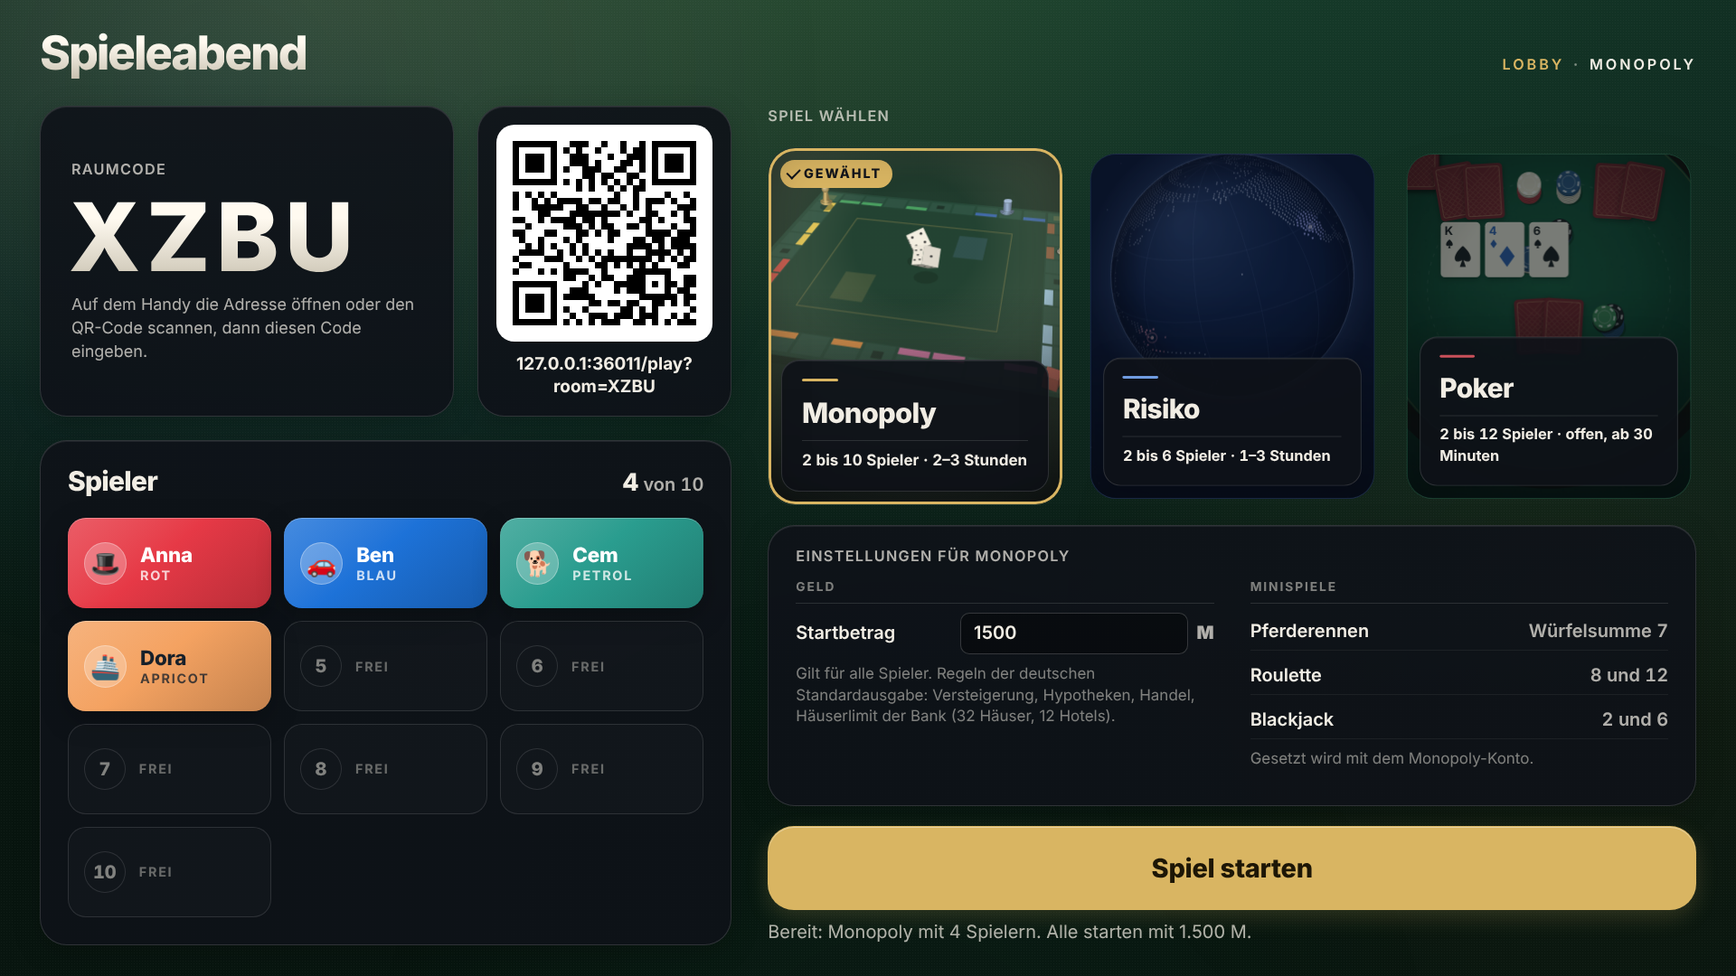
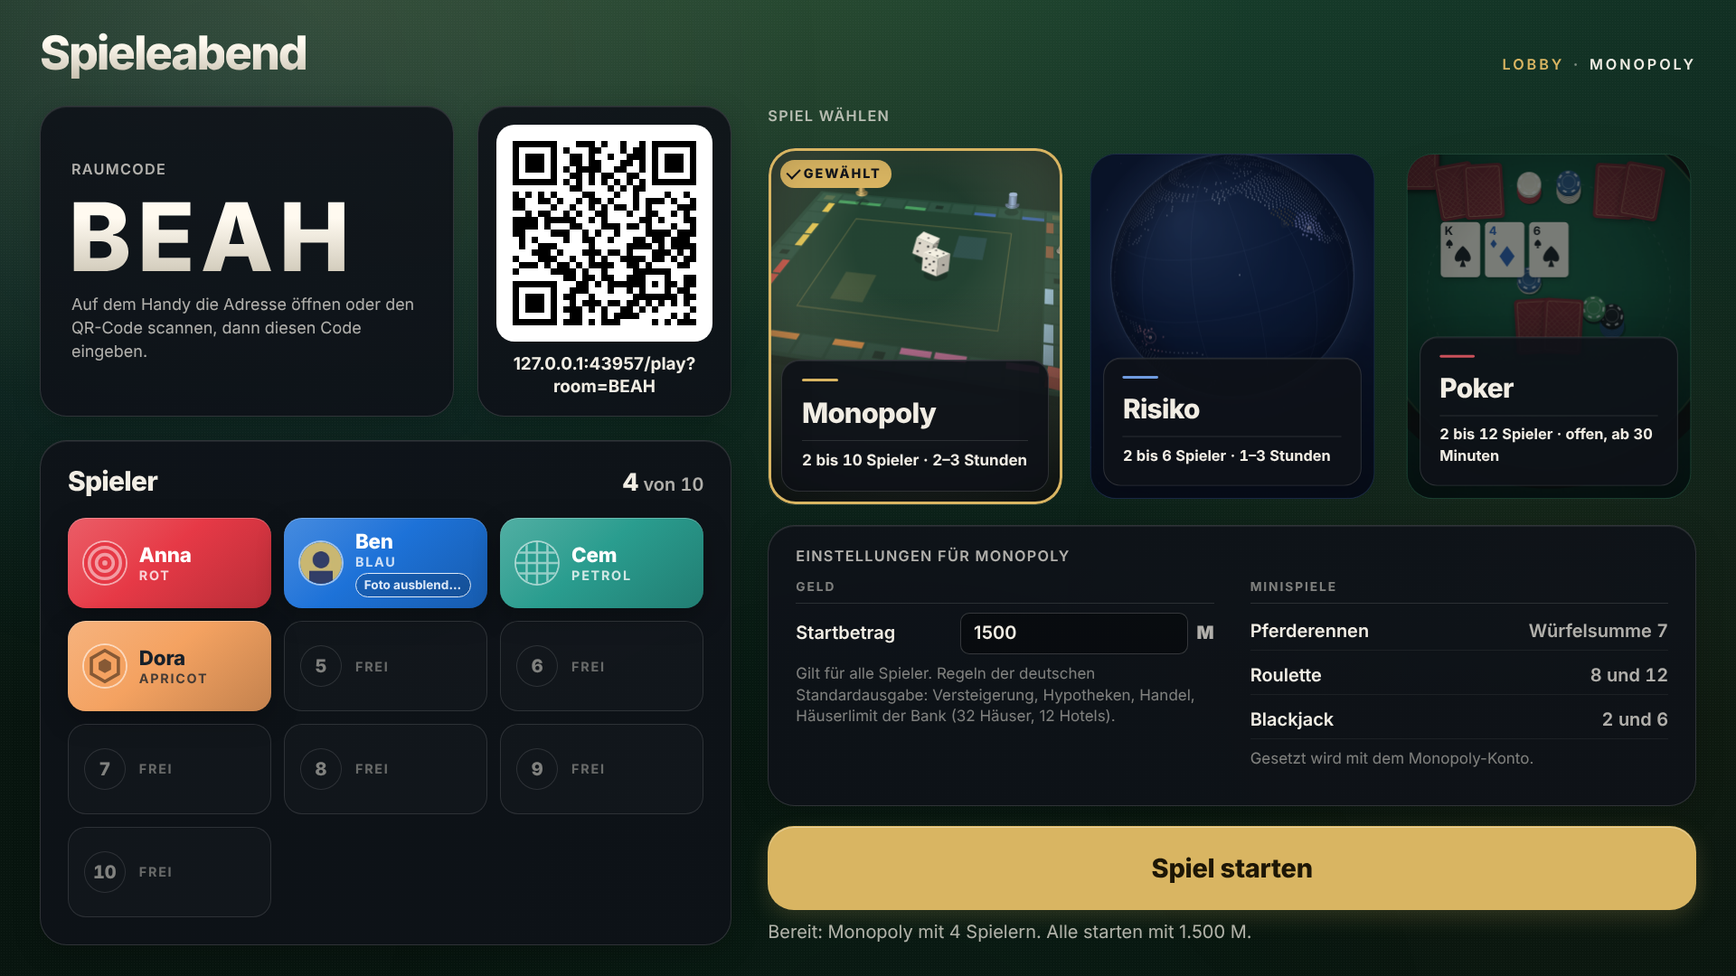
Bildschirmfotos und Doku: Avatare und eigene Fotos
Claude-Session: https://claude.ai/code/session_01TwzLN21TEFz6fqiYsAZQ7b

diff --git a/docs/spielcenter-plan.md b/docs/spielcenter-plan.md
@@ -42,7 +42,7 @@ Ziel: Aus dem Monopoly-Abend wird ein Spielcenter mit mehreren Spielen.
   - Showdown: Reihenfolge ab dem letzten Angreifer auf dem River, sonst ab links vom Dealer. Wer noch gewinnen oder teilen kann, deckt automatisch auf; wer nicht gewinnen kann, darf am Handy zeigen oder verdeckt wegwerfen (15 s, danach verdeckt; getrennt sofort verdeckt). Ist jemand All-in, werden alle Hände gezeigt. Handbewertung High Card bis Royal Flush mit Kicker und Gleichstand, Namen wie „Full House, Damen über Achten“.
   - Zugzeit: Ablauf heißt Check, wenn möglich, sonst Fold. Sie beginnt erst nach den Animationen. Ist der Spieler am Zug getrennt, ruht sie (Pause); nach 5 Minuten verlässt er den Tisch (seine Hand wird gefoldet, sein Guthaben bleibt in der Abrechnung).
   - Nachkaufen: Wer pleite ist, entscheidet zwischen zwei Runden am Handy „Nachkaufen“ (zum Startbetrag) oder „Aussetzen“ (mit Zugzeit: Ablauf heißt Aussetzen). Wer aussetzt, kann später nachkaufen. Ein Zähler je Spieler zeigt die Nachkäufe. Ohne Nachkaufen scheidet aus, wer pleite ist; das Spiel endet, wenn nur noch einer Guthaben hat (mit Nachkaufen: wenn weniger als zwei am Tisch bleiben). „Tisch verlassen“ in den Handy-Einstellungen.
-  - Spielerfarben: eigene Palette mit 12 Farben, dazu immer die Sitznummer. Keine Spielfigur.
+  - Spielerfarben: eigene Palette mit 12 Farben, dazu immer die Sitznummer und der Avatar des Spielers (am Namensschild und in der Spielerliste).
   - Fernseher: ovaler Tisch als flache Flächen (schmale Holzkante, dunkle Polsterkante, Filz mit sehr feinem Webmuster, feine Linie an der Filzkante). Plätze gleichmäßig auf einer Ellipse am Tischrand (ab 9 Spielern kleinere Plätze und Karten): Namensschild mit Name, Guthaben, Sitznummer, Farbstreifen, Plaketten SB/BB/All-in, zwei kleine Karten am Platz, Zugzeit als feiner Ring um das Schild (nur mit Zugzeit), aktiver Spieler mit feiner Linie markiert, Gefoldete abgedunkelt. Spielerliste mit Guthaben und Nachkäufen am Rand.
   - Tischgeometrie (`public/board/poker-layout.js`, reine Rechnung für Browser und Tests): Sperrzonen in der Mitte sind Kartenring (Gemeinschaftskarten), Blinds-Feld, Pot-Feld und die Zeile für den Handnamen. Ein Löser setzt Einsätze zwischen Platz und Mitte (notfalls seitlich verschoben oder kleiner) und den Dealer-Button (Puck mit „D“) neben seinen Platz am Tischrand, nie zur Mitte hin; reicht der Platz nicht, wird alles etwas kleiner. Chips fliegen um Kartenring und Blinds-Feld herum. Geprüft im Browser (getBoundingClientRect) für 2, 3, 6, 9 und 12 Spieler in allen Phasen inklusive Chips im Flug, in 1920×1080, 1366×768 und 1024×768: 0 Überlappungen.
   - Karten (Fernseher und Handy, `public/shared/poker-karten.*`): 5:7, Ecken mit Rang und Farbe oben links und unten rechts (gedreht), großes Farbsymbol in der Mitte, Bildkarten B, D, K rein typografisch mit feinem Rahmen, vier Farben (Pik schwarz, Herz rot, Karo blau, Kreuz grün), Rückseite mit flachem Rautengitter; kleine Karten am Platz nur mit oberer Ecke.
@@ -65,15 +65,26 @@ Ziel: Aus dem Monopoly-Abend wird ein Spielcenter mit mehreren Spielen.
   - **Offen (eigener Auftrag):** Die Weckseite `wake/` ist noch eine Kopie des alten Designs und muss an die neue Startseite angeglichen werden.
 - **Lobby und Beitritt** (Branch `feature/lobby`; `public/shared/lobby.css`, `lobby.js`, Host-Teil in `public/board/board.js`): im Design der Startseite. Wortmarke, Schrift, Farben, Glas-Flächen, Abstände und Radien sind aus `public/start/start.css` **kopiert** (die Startseite bleibt eigenständig). Verhalten und Server-Schnittstellen sind unverändert.
   - Host-Ansicht als eine Seite ohne Scrollen (1920×1080, 1366×768, 1024×768; Maße in em, Grundgröße aus Fensterbreite und -höhe). Links Raumcode sehr groß in einer Glas-Karte, daneben der QR-Code mit Adresse, darunter die Spielerliste. Rechts die drei Spiele als große Karten, darunter die Einstellungen und der Start-Knopf.
-  - Spielerliste: jeder Platz als Karte in der Spielerfarbe mit Name, Farbname und bei Monopoly der Spielfigur (sonst Platznummer); neue Spieler gleiten kurz herein. Freie Plätze als dezente Umrisse mit Nummer, Zähler „3 von 6“. Das Raster richtet sich nach der Platzzahl des Spiels (2 bzw. 3 Spalten, bis 12 Plätze).
-  - Spielkarten mit den animierten Hintergründen der Startseite (Weltkugel, Spielfeld, Pokertisch). Der Code liegt in `public/shared/hintergrund.js` und wird von Startseite und Lobby geladen: gleiche Qualitätsstufen (eine Fläche mit voller Bildrate – in der Lobby das gewählte Spiel –, die anderen mit halber; unsichtbar oder Hintergrund-Tab ruht; schlechte Bildzeit senkt Auflösung, macht Glas fest, zuletzt Standbilder; `prefers-reduced-motion` zeigt Standbilder). Die Karten werden einmal gebaut und danach nur umgeschaltet, damit die Szenen nicht neu starten. Auswahl mit Ring in der Spielfarbe und Plakette „Gewählt“, nicht gewählte Karten treten zurück. Auf flachen Karten (16:9) entfällt die Beschreibung, damit die Szene sichtbar bleibt.
+  - Spielerliste: jeder Platz als Karte in der Spielerfarbe mit Avatar (bzw. Foto), Name und Farbname; hat ein Spieler ein Foto, steht darunter „Foto ausblenden“ für den Host. Neue Spieler gleiten kurz herein. Freie Plätze als dezente Umrisse mit Nummer, Zähler „3 von 6“. Das Raster richtet sich nach der Platzzahl des Spiels (2 bzw. 3 Spalten, bis 12 Plätze).
+  - Spielkarten mit den animierten Hintergründen der Startseite (Weltkugel, Spielfeld, Pokertisch), ohne Beschreibungstext: nur Spielname, Spielerzahl und Dauer, damit die Szene mehr Fläche hat. Der Code liegt in `public/shared/hintergrund.js` und wird von Startseite und Lobby geladen: gleiche Qualitätsstufen (eine Fläche mit voller Bildrate – in der Lobby das gewählte Spiel –, die anderen mit halber; unsichtbar oder Hintergrund-Tab ruht; schlechte Bildzeit senkt Auflösung, macht Glas fest, zuletzt Standbilder; `prefers-reduced-motion` zeigt Standbilder). Die Karten werden einmal gebaut und danach nur umgeschaltet, damit die Szenen nicht neu starten. Auswahl mit Ring in der Spielfarbe und Plakette „Gewählt“, nicht gewählte Karten treten zurück.
   - Einstellungen gruppiert in einer Glas-Karte: Monopoly (Geld; Minispiele mit Würfelsummen), Risiko (Regeln; Darstellung), Poker (Geld; Ablauf). Die Karte ist immer so hoch wie bei Poker, damit beim Spielwechsel nichts springt.
   - Start-Knopf groß, erst aktiv mit genug Spielern; darunter, was fehlt („Noch 2 Spieler fehlen – Risiko braucht mindestens 2.“) bzw. „Bereit: …“.
   - Gesamthintergrund: Stimmung je Spiel (Monopoly warmes Grün, Risiko tiefes Blau, Poker Tischgrün) als Überblendung, dazu die langsam treibenden Lichter der Startseite. Die frühere Weltkarte bzw. die Muster im Hintergrund entfallen.
   - Bewegung nur mit `transform` und `opacity` (Auswahl über `scale`/`translate` und einen Schleier): gestaffelter Eingang (0,6–0,7 s, cubic-bezier), Wortmarke Buchstabe für Buchstabe, Hover, weicher Auswahlwechsel. `prefers-reduced-motion`: nur kurzes Einblenden, keine treibenden Lichter.
-  - Handy-Beitritt (`/play`): gleiche Gestaltung (Wortmarke, Spiel und Spielerzahl, Formular als Glas-Karte, goldener Knopf), Verhalten unverändert. Spielfigur wählt man nur bei Monopoly, sonst vergibt der Server die erste freie.
-  - Geprüft im Browser (`test/lobby-layout.e2e.test.js`): 0, 4, 8 und 12 Spieler, jedes Spiel gewählt, drei Auflösungen: kein Scrollen, keine Überlappung, nichts ragt aus seiner Karte, kein Konsolenfehler; dazu Handy 390×844 und reduzierte Bewegung.
-  - Bildschirmfotos: `lobby-leer-*`, `lobby-4-spieler-*`, `lobby-12-spieler-*` (1920×1080 und 1024×768), `lobby-monopoly-1920x1080`, `lobby-risiko-1920x1080`, `lobby-poker-1920x1080`, `handy-beitritt-390x844` (Monopoly), `handy-beitritt-risiko-390x844`, `handy-beitritt-voll-390x844` in `docs/screenshots/`.
+  - Handy-Beitritt (`/play`): gleiche Gestaltung (Wortmarke, Spiel und Spielerzahl, Formular als Glas-Karte, goldener Knopf). Name, Farbe und Avatar (siehe unten) für jedes Spiel; ohne Wahl gilt das Monogramm.
+  - Geprüft im Browser (`test/lobby-layout.e2e.test.js`): 0, 4, 8 und 12 Spieler mit gemischten Avataren und Fotos, jedes Spiel gewählt, drei Auflösungen: kein Scrollen, keine Überlappung, nichts ragt aus seiner Karte, kein Konsolenfehler; dazu Handy 390×844 und reduzierte Bewegung.
+  - Bildschirmfotos: `lobby-leer-*`, `lobby-4-spieler-*`, `lobby-12-spieler-*` `lobby-8-spieler-avatare-*` (1920×1080 und 1024×768), `lobby-risiko-1920x1080`, `lobby-poker-1920x1080`, `handy-beitritt-390x844` (Monopoly), `handy-beitritt-risiko-390x844`, `handy-beitritt-voll-390x844` in `docs/screenshots/`.
+- **Avatare und eigene Fotos** (Branch `feature/lobby`): Die Emoji-Spielfiguren sind überall ersetzt (Handy-Beitritt, Lobby, Monopoly-Brett, Spielerlisten, Poker-Namensschilder, Risiko-Liste und Abschlussbild, Endstand).
+  - Avatar-Set `public/shared/avatare.js`: 24 flache, rein geometrische SVG-Motive (Ringe, Streifen, Stern, Wellen, Rauten, Punkte, Schachbrett, Halbkreis, Dreiecke, Zickzack, Kreuz, Bögen, Sonne, Fächer, Gitter, Gipfel, Kreise, Sternfeld, Quadrate, Balken, Schuppen, Sechseck, Winkel, Viertel), jeweils Spielerfarbe als Fläche und eine zweite Tönung (auf dunklen Farben heller, auf hellen dunkler); keine Verläufe, keine Gesichter, Tiere oder Figuren. Dazu „Monogramm“: erster Buchstabe des Namens auf der Farbfläche.
+  - Eine Anzeige für alles: `avatarHtml(spieler, 'S' | 'M' | 'L')` (`public/shared/avatare.css`): runde Maske, feiner Rand in der Spielerfarbe. Spieldaten kennen nur id, Name und Farbe; Avatar und Foto kommen aus der Lobby-Liste im Snapshot. Monopoly: der Avatar füllt die runde Spielmarke.
+  - Farbe und Avatar werden getrennt gewählt. Gleiche Avatare im Raum sind erlaubt, nur nicht in gleicher Farbe (Farben sind ohnehin einmalig). Der Server prüft die Kennung (`avatar`, sonst Monogramm).
+  - Eigenes Foto (optional): „Eigenes Foto“ am Handy mit Hinweis „Dein Foto ist nur in diesem Raum sichtbar und wird nach dem Spiel gelöscht.“, Galerie oder Kamera (`input type=file`, `accept=image/*`, `capture`). Das Handy schneidet quadratisch zu (Ziehen, Zoom-Regler, zwei Finger; runde Vorschau), zeichnet auf 128 × 128 neu und kodiert als WebP, sonst JPEG, mit sinkender Qualität bis höchstens 20 KB (`public/play/foto.js`). Nur dieses Bild wird nach dem Beitritt gesendet (Absicht `avatar:foto`); durch das Neuzeichnen fallen EXIF- und Ortsdaten weg (im Browser-Test mit einem JPEG mit GPS-Angaben belegt).
+  - Server (`server/foto.js`): höchstens 24 KB, nur WebP (VP8, VP8L, VP8X) oder JPEG, erkannt am Dateikopf, Maße genau 128 × 128 aus dem Kopf gelesen (ohne Bildbibliothek); sonst deutsche Ablehnung. Höchstens 3 Wechsel pro Spieler und Minute, ein Foto pro Spieler (das neue ersetzt das alte), höchstens 12 je Raum. Abgelehnte Dateien zählen nicht als Wechsel.
+  - Speicherung: Das Foto liegt im Raumzustand und wird mit ihm in Postgres gespeichert (Base64) und mit dem Raum gelöscht (Raum schließen, Aufräumen leerer oder alter Räume, Spieler verlässt die Lobby). Der Snapshot enthält nur den Verweis `/api/avatar/:raum/:spieler?v=n`; ausgeliefert nur, solange Raum und Foto existieren, mit festem Content-Type, `X-Content-Type-Options: nosniff`, kurzem privaten Cache (60 s). Nirgends gelistet.
+  - Der Host kann jedes Foto in der Lobby ausblenden („Foto ausblenden“, wieder „Foto zeigen“); dann gilt der Avatar bzw. das Monogramm. Lädt ein Foto nicht, wird es entfernt und das Motiv darunter bleibt (nie ein kaputtes Bild).
+  - Alte Spielstände: Das Feld `figure` bleibt lesbar und wird mitgespeichert; beim Laden bekommt ein Spieler mit Emoji-Figur das Motiv an derselben Stelle (🎩 → Ringe, 🚗 → Streifen …), ohne Figur das Monogramm. Neue Spieler haben kein `figure` mehr.
+  - Geprüft: `test/avatare.test.js` (24 Motive, wohlgeformtes SVG ohne Skripte, Verläufe, Text oder Bilder, nur Farbe und Tönung), `test/foto.test.js` (Köpfe von JPEG und WebP, Ablehnung zu großer, falsch formatierter und falsch dimensionierter Dateien, Rate-Limit, Snapshot ohne Bild, Speichern und Löschen mit dem Raum im Ersatz-Speicher, alter Raum mit `figure`, HTTP-Auslieferung), `test/avatar.e2e.test.js` (Avatar wählen, Foto zuschneiden und hochladen, Lobby, Ausblenden, Monopoly-Marken, Endstand, Raum schließen). Überlappung: Lobby mit 0 bis 12 Spielern und Poker-Namensschilder mit Avataren für 2, 3, 4, 6, 8, 9 und 12 Spieler in drei Auflösungen.
+  - Bildschirmfotos: `handy-avatar-auswahl-390x844`, `handy-foto-zuschnitt-390x844`, `lobby-8-spieler-avatare-*`, `poker-tv-avatare-*`, `monopoly-brett-marken-1920x1080`, `endstand-avatare-1920x1080` in `docs/screenshots/`.
 - **Räume:**
   - Grenzen gegen Missbrauch: höchstens 20 Räume gleichzeitig, höchstens 5 neue pro Minute und IP. Leere Räume (keine Host-Ansicht, keine Spieler) verschwinden nach 30 Minuten, bei erreichtem Limit schon nach 2 Minuten; laufende Spiele nach 6 h ohne Aktivität. Gelöschte Räume werden auch aus der Datenbank entfernt, beim Start werden höchstens 20 geladen.
   - 4-Buchstaben-Code mit QR-Beitritt
@@ -85,7 +96,7 @@ Ziel: Aus dem Monopoly-Abend wird ein Spielcenter mit mehreren Spielen.
   - Vanilla-JS-Clients ohne Build-Schritt
   - Zustand im Arbeitsspeicher; mit `DATABASE_URL` zusätzlich in Postgres (Neon), siehe Betrieb
 - **Deployment:** `render.yaml` als Web Service im Free-Plan; Build mit `npm install --omit=dev`, Start mit `npm start`, Healthcheck `/healthz`.
-- **Tests:** `npm test` führt nur die Unit-Tests aus (175: Regeln von Monopoly, Risiko, Poker und Minispielen, Spiel-Schnittstelle, Spielauswahl, Neustart-Tests mit gespeicherten Räumen in Version 1 und 2, Prüfung der erzeugten Weltkarte, Animations-Ereignisse, Risiko-Anzeigedaten wie Vorauswahl, Phasentexte und Statistik samt altem Spielstand ohne Statistik, Animationsdauern, Raumlimit, Rate-Limit und Aufräumen leerer Räume, Startseite per HTTP, CORS-Freigabe von `/healthz` für die Weckseite, Wächter für die Testskripte, Punktdatei der Weltkugel). Poker hat 31 eigene Tests (`test/poker.test.js`, `test/poker-modul.test.js`): Handbewertung aller Kategorien mit Kickern und Gleichständen, Side-Pots mit drei und mehr Spielern und mehreren All-ins, Split mit ungeradem Cent, Mindest-Raise und zu kleines All-in, Heads-up, Blinds-Rotation, Aktionen außerhalb des Zuges, Einstellungen, Ablehnung des 13. Spielers, Austeilen mit 12 Spielern, versteckte Karten für jede Rolle auch nach Neustart aus dem Speicher, Zugzeit, Nachkaufen, Spielende und eine Zufallspartie mit festem Seed (über 100 Runden je mit 3, 6 und 12 Spielern), in der Guthaben plus Pot bis auf Nachkäufe konstant bleibt. Dazu `test/poker-layout.test.js` (Tischgeometrie ohne Browser: keine Überlappung mit Sperrzonen und untereinander für 2 bis 12 Spieler, Chip-Flugbahnen) und `test/spiel-beenden.test.js` (nur der Host beendet, Endphase, Neustart, Zurück zur Lobby, Raum schließen inklusive Löschen aus dem Speicher, Poker-Endstand mit Summe null, Monopoly-Vermögen, Risiko-Gebiete). Lokal kommen dazu `npm run test:browser` (Playwright-Durchläufe: Monopoly mit 1 Host-Ansicht und 3 Handys, Lobby, alte Einzelversion, Risiko mit 2 Handys inkl. Vorauswahl auf dem Fernseher, Poker mit 3 Handys (eine Runde, Karten nur am eigenen Handy, Gemeinschaftskarten auf dem Fernseher), Überlappungsprüfung des Poker-Tisches (`poker-layout.e2e`, `poker-layout-viele.e2e`, gemeinsamer Ablauf in `test/poker-layout-messung.js`), Spiel beenden mit Bestätigung, Endstand auf den Handys, Lobby und Raum schließen, Raster der Lobby (`lobby-layout.e2e`: 0 bis 12 Spieler, drei Auflösungen, Handy-Beitritt), Startseite mit Raum anlegen und Beitritt per Code, Weckseite; braucht `CHROMIUM_PATH`; zuletzt 18 von 18 grün mit `/opt/pw-browsers/chromium`) und `npm run test:db` (2 Datenbank-Tests, braucht `DATABASE_URL`). Fehlt die Umgebung, werden diese Tests mit Grund übersprungen. Zeitlimit 60 s pro Testdatei.
+- **Tests:** `npm test` führt nur die Unit-Tests aus (185: Avatar-Set und Fotoprüfung (Format, Maße, Größe, Rate-Limit, Speichern und Löschen, alter Raum mit Emoji-Figur), Regeln von Monopoly, Risiko, Poker und Minispielen, Spiel-Schnittstelle, Spielauswahl, Neustart-Tests mit gespeicherten Räumen in Version 1 und 2, Prüfung der erzeugten Weltkarte, Animations-Ereignisse, Risiko-Anzeigedaten wie Vorauswahl, Phasentexte und Statistik samt altem Spielstand ohne Statistik, Animationsdauern, Raumlimit, Rate-Limit und Aufräumen leerer Räume, Startseite per HTTP, CORS-Freigabe von `/healthz` für die Weckseite, Wächter für die Testskripte, Punktdatei der Weltkugel). Poker hat 31 eigene Tests (`test/poker.test.js`, `test/poker-modul.test.js`): Handbewertung aller Kategorien mit Kickern und Gleichständen, Side-Pots mit drei und mehr Spielern und mehreren All-ins, Split mit ungeradem Cent, Mindest-Raise und zu kleines All-in, Heads-up, Blinds-Rotation, Aktionen außerhalb des Zuges, Einstellungen, Ablehnung des 13. Spielers, Austeilen mit 12 Spielern, versteckte Karten für jede Rolle auch nach Neustart aus dem Speicher, Zugzeit, Nachkaufen, Spielende und eine Zufallspartie mit festem Seed (über 100 Runden je mit 3, 6 und 12 Spielern), in der Guthaben plus Pot bis auf Nachkäufe konstant bleibt. Dazu `test/poker-layout.test.js` (Tischgeometrie ohne Browser: keine Überlappung mit Sperrzonen und untereinander für 2 bis 12 Spieler, Chip-Flugbahnen) und `test/spiel-beenden.test.js` (nur der Host beendet, Endphase, Neustart, Zurück zur Lobby, Raum schließen inklusive Löschen aus dem Speicher, Poker-Endstand mit Summe null, Monopoly-Vermögen, Risiko-Gebiete). Lokal kommen dazu `npm run test:browser` (Playwright-Durchläufe: Monopoly mit 1 Host-Ansicht und 3 Handys, Lobby, alte Einzelversion, Risiko mit 2 Handys inkl. Vorauswahl auf dem Fernseher, Poker mit 3 Handys (eine Runde, Karten nur am eigenen Handy, Gemeinschaftskarten auf dem Fernseher), Überlappungsprüfung des Poker-Tisches (`poker-layout.e2e`, `poker-layout-viele.e2e`, gemeinsamer Ablauf in `test/poker-layout-messung.js`), Spiel beenden mit Bestätigung, Endstand auf den Handys, Lobby und Raum schließen, Raster der Lobby (`lobby-layout.e2e`: 0 bis 12 Spieler, drei Auflösungen, Handy-Beitritt), Avatare und Fotos (`avatar.e2e`), Startseite mit Raum anlegen und Beitritt per Code, Weckseite; braucht `CHROMIUM_PATH`; zuletzt 21 von 21 grün mit `/opt/pw-browsers/chromium`) und `npm run test:db` (2 Datenbank-Tests, braucht `DATABASE_URL`). Fehlt die Umgebung, werden diese Tests mit Grund übersprungen. Zeitlimit 60 s pro Testdatei.
 - **Aufräumarbeiten:** `package-lock.json` liegt im Repo. Die alte Pferderennen-Einzelversion liegt in `legacy/`.
 
 ## Entscheidungen
@@ -98,8 +109,10 @@ Ziel: Aus dem Monopoly-Abend wird ein Spielcenter mit mehreren Spielen.
 6. **Risiko: Gebiete von Ausgeschiedenen werden neutral.** Wer aufgibt oder zu lange getrennt ist, scheidet aus; die Gebiete werden neutral, die Armeen bleiben stehen, die Karten kommen auf den Ablagestapel.
 7. **Poker: Texas Hold'em als Cash-Game**, 2 bis 12 Spieler, Geld in ganzen Cent, Einstellungen und Regeln wie oben unter Poker. Keine Turniere, keine anderen Varianten.
 8. **Poker: Showdown.** Wer gewinnen kann, zeigt automatisch; wer nicht gewinnen kann, darf verdeckt wegwerfen. Bei einem All-in werden alle Hände gezeigt. Die Dead-Button-Regel gibt es nicht: Der Button rückt immer zum nächsten Spieler mit Guthaben.
-9. **Räume bis 12 Spieler.** Monopoly bleibt bei 10, Risiko bei 6. Spieler 11 und 12 haben keine Spielfigur (nur bei Monopoly nötig).
+9. **Räume bis 12 Spieler.** Monopoly bleibt bei 10, Risiko bei 6.
 10. **Spiel beenden darf nur die Host-Ansicht.** Host ist, wer die Host-Ansicht des Raumes geöffnet hat (wie bisher ohne Anmeldung). Ein vorzeitig beendetes Spiel hat keinen Sieger; laufende Poker-Runden und Minispiele werden abgebrochen, Einsätze gehen zurück.
+11. **Avatare statt Emoji-Figuren.** Eigenes geometrisches Set mit 24 Motiven plus Monogramm, getrennt von der Farbe wählbar; das alte Feld `figure` bleibt nur zum Lesen alter Spielstände.
+12. **Eigene Fotos nur klein und nur im Raum.** 128 × 128, höchstens 20 KB am Handy bzw. 24 KB am Server, nur WebP oder JPEG; gelöscht mit dem Raum; der Host kann jedes Foto ausblenden.
 
 ## Offene Punkte
 

diff --git a/CLAUDE.md b/CLAUDE.md
@@ -17,6 +17,7 @@ Spielcenter für den Spieleabend: Ein großer Bildschirm (Tablet oder TV) zeigt 
   - `server/games/risiko/`: Risiko-Regel-Engine, Karte als Daten (`map.js`: Gebiete, Nachbarschaften) und Spielmodul
   - `server/games/poker/`: Texas Hold'em – `cards.js` (Karten, Mischen über `server/rng.js`), `hands.js` (Handbewertung, eigene Umsetzung), `pots.js` (Pot, Side-Pots, Split), `money.js` (Euro als ganze Cent), `rules.js` (Rundenablauf, Aktionsprüfung, Einstellungen), `index.js` (Spielmodul mit Ereignissen, Zugzeit, Snapshots, eigener Farbpalette mit 12 Farben)
   - `server/games/risiko/map-paths.js`: realistische Weltkarte (SVG-Pfade, Seen, Marker, Namen, Seewege), **erzeugt** von `scripts/build-map.js` aus Natural Earth; nicht von Hand ändern, sondern neu bauen. Die Host-Ansicht lädt sie als `/risiko/map-paths.js`.
+  - Avatare: `public/shared/avatare.js` / `.css` (24 geometrische SVG-Motive plus Monogramm, eine Anzeige `avatarHtml(spieler, 'S'|'M'|'L')` für alle Ansichten; Avatar und Foto kommen aus `lobby` im Snapshot). Eigene Fotos: Zuschnitt am Handy `public/play/foto.js`, Prüfung am Dateikopf `server/foto.js` (nur WebP/JPEG, 128 × 128, höchstens 24 KB), Absicht `avatar:foto`, Auslieferung `/api/avatar/:raum/:spieler`. Fotos liegen im Raumzustand und verschwinden mit dem Raum; der Snapshot enthält nur den Verweis, nie das Bild. Das Spielerfeld `figure` (alte Emoji-Figuren) wird nur noch aus alten Spielständen gelesen.
   - Startseite `public/start/` (unter `/`), Lobby- und Beitritts-Gestaltung gemeinsam in `public/shared/lobby.css` / `lobby.js`, animierte Spiel-Hintergründe für Startseite und Lobby in `public/shared/hintergrund.js`; Raumgrenzen (20 gleichzeitig, 5 pro Minute und IP, leere Räume nach 30 Minuten weg) in `server/rooms.js`
   - Clients: Monopoly in `board.js` / `play.js`, Risiko in `public/board/risiko.js` (dazu `risiko-audio.js` für Töne) und `public/play/risiko.js`; gemeinsame Kartenfarben und -größen in `public/shared/risiko-farben.js`
   - Poker-Clients: `public/board/poker.js` (Tisch, Animationen aus den Server-Ereignissen; `poker-audio.js` für Töne), `public/play/poker.js`; Spielkarten, Chipstapel, Sitzmarken und Euro-Anzeige gemeinsam in `public/shared/poker-karten.js` / `.css`

diff --git a/README.md b/README.md
@@ -50,7 +50,7 @@ Hinweise zum kostenlosen Plan:
 
 ### Lobby
 
-- Das Tablet zeigt Raum-Code und QR-Code. Jeder Spieler tritt am Handy mit **Name, Spielfigur und Farbe** bei (2–10 Spieler).
+- Das Tablet zeigt Raum-Code und QR-Code. Jeder Spieler tritt am Handy mit **Name, Farbe und Avatar** bei (wahlweise eigenes Foto; 2–10 Spieler).
 - Am Tablet stellt man den **Startbetrag** ein (Standard 1500 M, für alle gleich) und tippt auf **„Spiel starten“**. Das Tablet braucht sonst keine Bedienung.
 - Wer das Handy neu lädt oder das gesperrte Display wieder entsperrt, ist sofort wieder im Spiel.
 - Getrennte Spieler bleiben im Spiel. Ist ein getrennter Spieler gerade dran, wird sein Zug pausiert. Wartet das Spiel 5 Minuten lang auf ihn, scheidet er aus.
